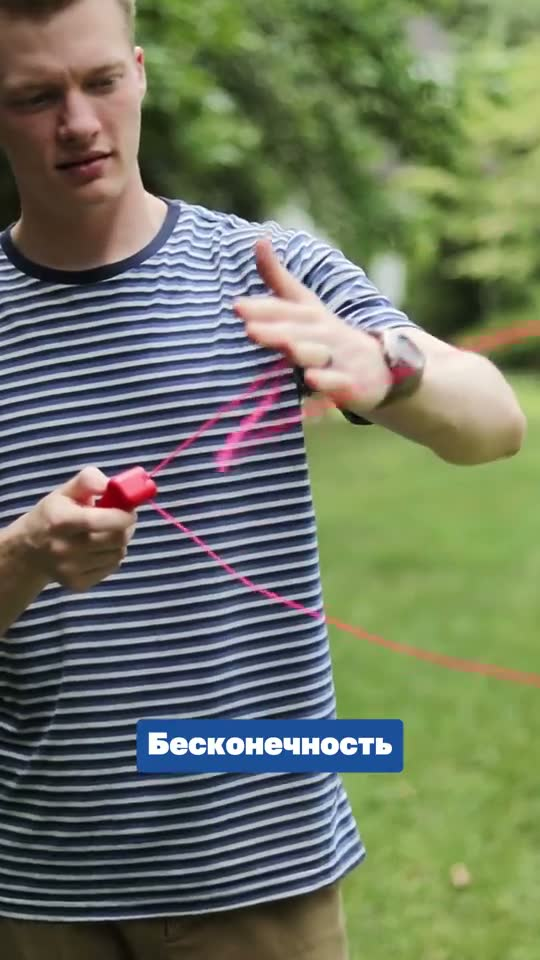
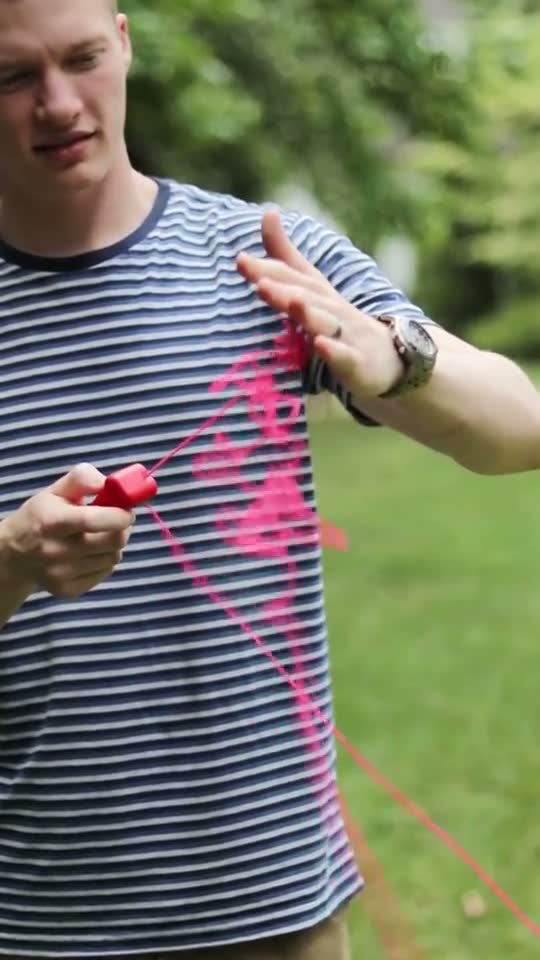
fix(site): правки квиза после осмотра вживую
- экран теста держит высоту вьюпорта, футер больше не лезет в первый экран
- буквы вариантов А–Д крупнее, кириллица не выглядит мельче латиницы
- заголовок на мобильном не рвётся посреди «ZIP-стиль»
- боковой ролик не оставляет пустую рамку и подключается,
  если окно расширили уже после загрузки
- постер бокового ролика — кадр, где видно человека и нить

diff --git a/css/main.css b/css/main.css
@@ -3118,12 +3118,16 @@ p {
 .quiz {
   position: relative;
   padding: 72px 0 96px;
+  min-height: calc(100svh - 160px);
+  display: flex;
+  align-items: center;
   background:
     radial-gradient(circle at 15% 0%, rgba(198,255,0,0.10), transparent 55%),
     var(--bg);
   overflow: hidden;
 }
 .quiz-inner {
+  width: 100%;
   max-width: 1180px;
   margin: 0 auto;
   padding: 0 24px;
@@ -3147,7 +3151,7 @@ p {
 .quiz-title {
   font-family: var(--font-display);
   font-weight: 900;
-  font-size: clamp(2.2rem, 1.2rem + 3.6vw, 4.4rem);
+  font-size: clamp(1.9rem, 1rem + 3.6vw, 4.4rem);
   line-height: 1.02;
   letter-spacing: -0.02em;
   margin: 18px 0 14px;
@@ -3159,9 +3163,11 @@ p {
 }
 .quiz-start { font-size: 15px; }
 .quiz-accent { color: var(--lime); }
+@media (min-width: 901px) { .quiz-title .quiz-accent { display: block; } }
 
 /* Крутящийся трюк сбоку */
 .quiz-loop {
+  display: none;
   aspect-ratio: 3 / 4;
   border-radius: var(--radius-lg);
   overflow: hidden;
@@ -3169,6 +3175,7 @@ p {
   box-shadow: 0 30px 70px rgba(0,0,0,0.5);
   transform: rotate(-2deg);
 }
+.quiz-loop.is-on { display: block; }
 .quiz-loop video { width: 100%; height: 100%; object-fit: cover; }
 
 /* Прогресс */
@@ -3223,8 +3230,9 @@ p {
   background: var(--lime);
   color: #000;
   font-family: var(--font-display);
-  font-weight: 800;
-  font-size: 12px;
+  font-weight: 700;
+  font-size: 14px;
+  line-height: 1;
 }
 .quiz-back {
   margin-top: 22px;
@@ -3274,7 +3282,7 @@ p {
 
 @media (max-width: 900px) {
   .quiz-inner, #quizResult.is-active { grid-template-columns: 1fr; gap: 32px; }
-  .quiz-loop { display: none; }
+  .quiz-loop, .quiz-loop.is-on { display: none; }
   .quiz-result-media { max-width: 300px; margin: 0 auto; }
 }
 @media (prefers-reduced-motion: reduce) {

diff --git a/js/quiz.js b/js/quiz.js
@@ -118,14 +118,22 @@
 
   // Декоративный ролик сбоку грузится только там, где он реально виден:
   // на мобильном .quiz-loop скрыт, и качать его незачем.
-  if (window.matchMedia('(min-width: 901px)').matches &&
-      !window.matchMedia('(prefers-reduced-motion: reduce)').matches) {
-    document.querySelectorAll('.quiz-loop-video').forEach(function (v) {
+  // Пока src не подключён, рамка не показывается — иначе на месте ролика пустой блок.
+  var wide = window.matchMedia('(min-width: 901px)');
+  var still = window.matchMedia('(prefers-reduced-motion: reduce)');
+  function mountLoop() {
+    if (!wide.matches || still.matches) return;
+    var box = id('quizLoop');
+    box.classList.add('is-on');
+    box.querySelectorAll('.quiz-loop-video').forEach(function (v) {
+      if (v.src) return;
       v.poster = v.dataset.poster;
       v.src = v.dataset.src;
       v.play().catch(function () {});
     });
   }
+  mountLoop();
+  wide.addEventListener('change', mountLoop); // окно расширили — ролик появляется
 
   id('quizStart').addEventListener('click', function () {
     answers = []; current = 0;

diff --git a/pages/quiz/index.html b/pages/quiz/index.html
@@ -51,7 +51,7 @@
     <div class="quiz-screen is-active" id="quizIntro">
       <div class="quiz-intro">
         <div class="page-hero-badge">5 вопросов · 1 минута</div>
-        <h1 class="quiz-title">Твой ZIP-стиль<br><span class="quiz-accent">и фирменный трюк</span></h1>
+        <h1 class="quiz-title">Твой ZIP‑стиль <span class="quiz-accent">и фирменный трюк</span></h1>
         <p class="quiz-sub">Нажми, чтобы узнать.</p>
         <button class="btn-primary quiz-start" id="quizStart">Узнать</button>
         <noscript><p class="quiz-sub">Для теста нужен JavaScript. А пока — <a href="/pages/tricks/" class="quiz-accent">библиотека трюков</a>.</p></noscript>

diff --git a/index.html b/index.html
@@ -463,7 +463,7 @@
   <div class="section-inner">
     <a href="/pages/quiz/" class="quiz-teaser">
       <span class="quiz-teaser-badge">Тест · 1 минута</span>
-      <span class="quiz-teaser-title">Твой ZIP-стиль и фирменный трюк</span>
+      <span class="quiz-teaser-title">Твой ZIP‑стиль и фирменный трюк</span>
       <span class="quiz-teaser-go">Узнать →</span>
     </a>
   </div>

diff --git a/pages/tricks/index.html b/pages/tricks/index.html
@@ -235,7 +235,7 @@
   <div class="section-inner">
     <a href="/pages/quiz/" class="quiz-teaser">
       <span class="quiz-teaser-badge">Тест · 1 минута</span>
-      <span class="quiz-teaser-title">Твой ZIP-стиль и фирменный трюк</span>
+      <span class="quiz-teaser-title">Твой ZIP‑стиль и фирменный трюк</span>
       <span class="quiz-teaser-go">Узнать →</span>
     </a>
   </div>
